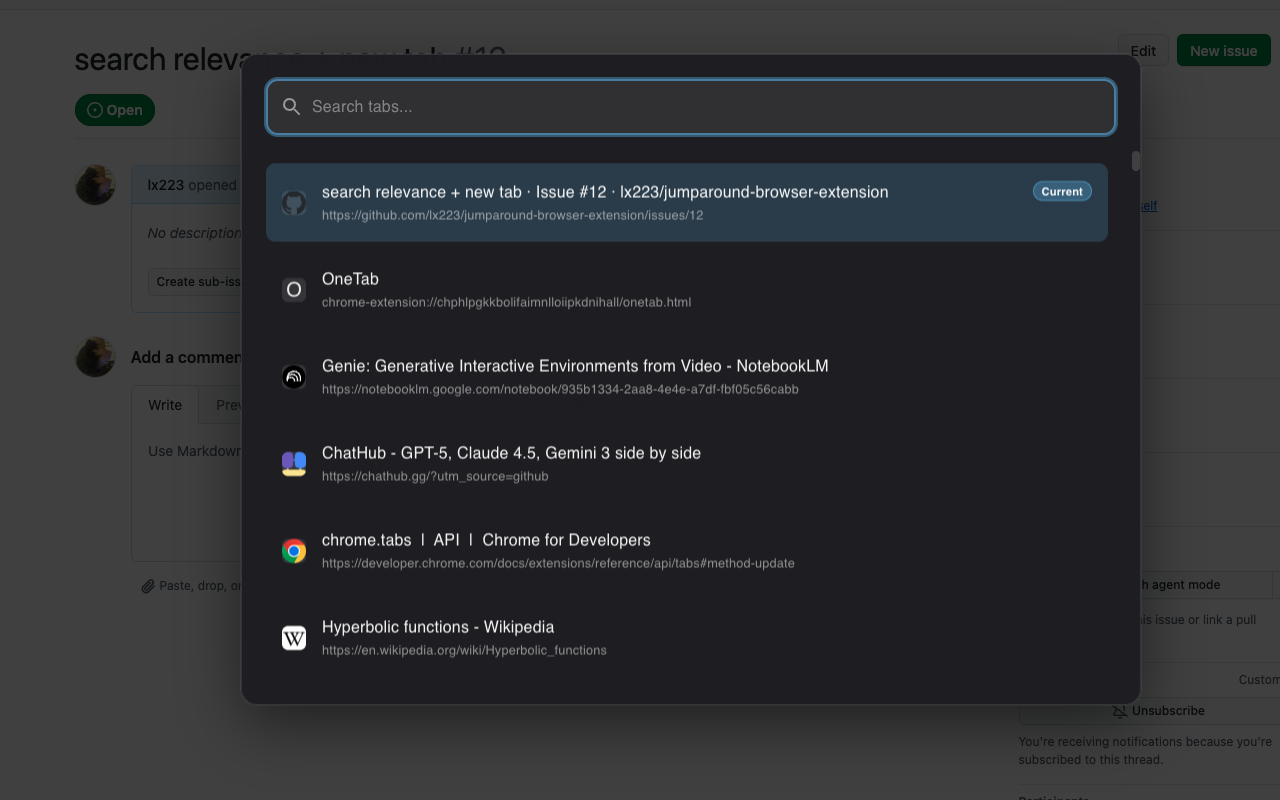
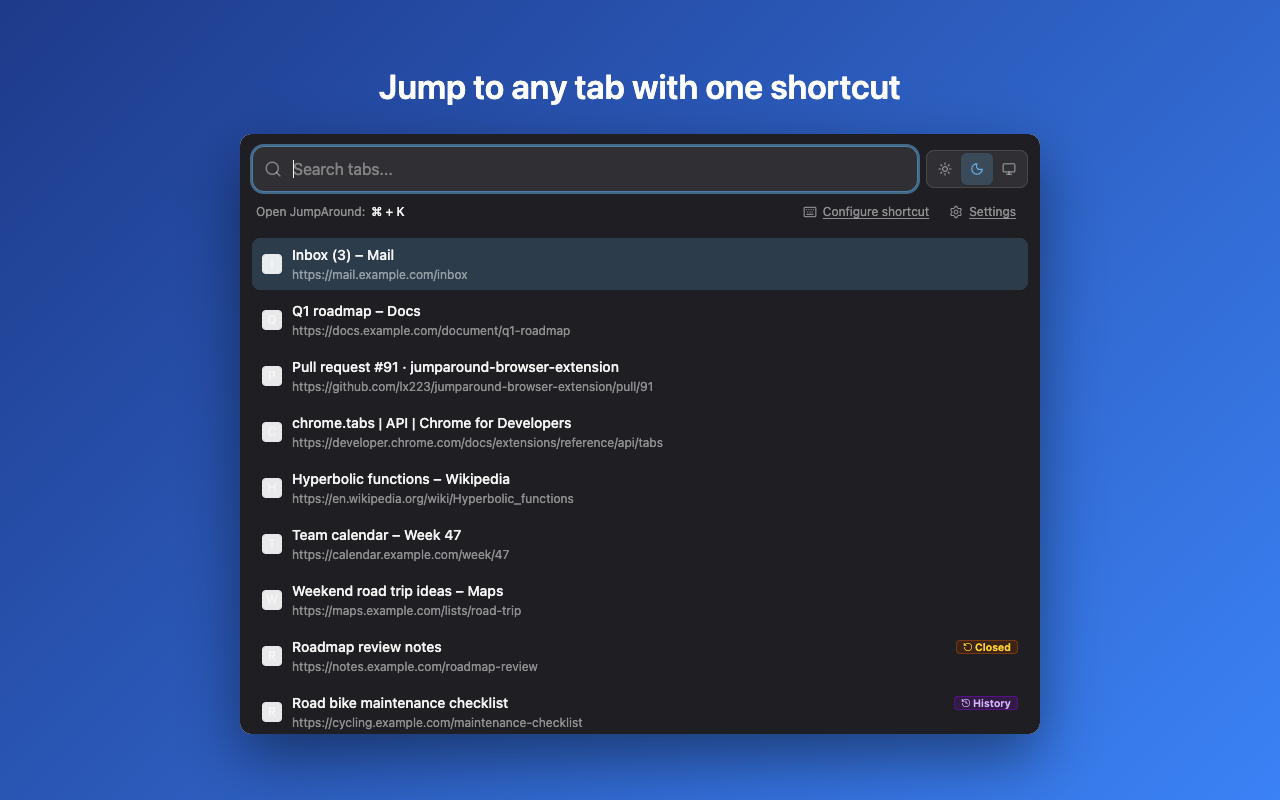
Regenerate store screenshots from the built extension
The old promo image showed an overlay UI the extension no longer has.
Add a script that renders the real popup and settings page with sample
tabs in headless Chrome, and use it to produce three 1280x800
screenshots: popup, search, and the new settings page.

diff --git a/scripts/store-screenshots.js b/scripts/store-screenshots.js
@@ -1,0 +1,129 @@
+#!/usr/bin/env node
+
+/**
+ * Regenerate the Chrome Web Store screenshots (1280x800) from the built extension.
+ *
+ * Renders the real popup and settings pages from dist/ in headless Chrome, with the
+ * chrome.* APIs replaced by a mock that returns sample tabs. Run `npm run build` first.
+ */
+
+import { createServer } from 'http';
+import { execFile } from 'child_process';
+import { promisify } from 'util';
+import { existsSync, mkdtempSync, readFileSync, rmSync } from 'fs';
+import { tmpdir } from 'os';
+import { extname, join, normalize } from 'path';
+import sharp from 'sharp';
+
+const root = join(import.meta.dirname, '..');
+const dist = join(root, 'dist');
+const out = join(root, 'store/chrome');
+const chromePath = process.env.CHROME_PATH || '/Applications/Google Chrome.app/Contents/MacOS/Google Chrome';
+
+if (!existsSync(join(dist, 'manifest.json'))) throw new Error('dist/ is missing. Run `npm run build` first.');
+if (!existsSync(chromePath)) throw new Error(`Chrome not found at ${chromePath}. Set CHROME_PATH.`);
+
+const shots = [
+  { file: 'promo.png', page: 'src/content/index.html', theme: 'dark', caption: 'Jump to any tab with one shortcut' },
+  { file: 'screenshot-search.png', page: 'src/content/index.html', theme: 'light', query: 'road', caption: 'Search open tabs, closed tabs and history' },
+  { file: 'screenshot-settings.png', page: 'src/options/index.html', theme: 'light', caption: 'Usage analytics is off unless you turn it on' },
+];
+
+const minutes = n => Date.now() - n * 60_000;
+const sample = {
+  tabs: [
+    ['Inbox (3) – Mail', 'https://mail.example.com/inbox'],
+    ['Q1 roadmap – Docs', 'https://docs.example.com/document/q1-roadmap'],
+    ['Pull request #91 · jumparound-browser-extension', 'https://github.com/lx223/jumparound-browser-extension/pull/91'],
+    ['chrome.tabs | API | Chrome for Developers', 'https://developer.chrome.com/docs/extensions/reference/api/tabs'],
+    ['Hyperbolic functions – Wikipedia', 'https://en.wikipedia.org/wiki/Hyperbolic_functions'],
+    ['Team calendar – Week 47', 'https://calendar.example.com/week/47'],
+    ['Weekend road trip ideas – Maps', 'https://maps.example.com/lists/road-trip'],
+  ].map(([title, url], i) => ({ id: i + 1, title, url, windowId: 1, active: i === 2, lastAccessed: minutes(i) })),
+  closedTabs: [
+    { id: -1, title: 'Roadmap review notes', url: 'https://notes.example.com/roadmap-review', windowId: 1, active: false, lastAccessed: minutes(30), isClosedTab: true, sessionId: '1' },
+  ],
+  historyTabs: [
+    { id: -2, title: 'Road bike maintenance checklist', url: 'https://cycling.example.com/maintenance-checklist', windowId: 1, active: false, lastAccessed: minutes(600), isHistoryTab: true },
+  ],
+};
+
+// Runs inside the extension page before its own scripts: a minimal stand-in for chrome.*.
+const mock = `(() => {
+  const params = new URLSearchParams(location.search);
+  const sample = ${JSON.stringify(sample)};
+  const messages = ${readFileSync(join(dist, '_locales/en/messages.json'), 'utf8')};
+  localStorage.setItem('jumparound-theme', params.get('theme') || 'light');
+  window.chrome = {
+    runtime: {
+      id: 'mock',
+      sendMessage: (message, callback) => callback?.(message.type === 'SEARCH_HISTORY' ? { historyTabs: [] } : { success: true, ...sample }),
+      openOptionsPage: async () => {},
+    },
+    i18n: { getMessage: key => messages[key]?.message || '', getUILanguage: () => 'en' },
+    commands: { getAll: callback => callback([{ name: '_execute_action', shortcut: '⌘K' }]) },
+    storage: {
+      local: { get: async () => ({}) },
+      onChanged: { addListener() {}, removeListener() {} },
+    },
+    tabs: { create() {} },
+  };
+  const query = params.get('query');
+  if (query) window.addEventListener('load', () => {
+    const type = () => {
+      const input = document.querySelector('input');
+      if (!input) return void setTimeout(type, 20);
+      Object.getOwnPropertyDescriptor(HTMLInputElement.prototype, 'value').set.call(input, query);
+      input.dispatchEvent(new Event('input', { bubbles: true }));
+    };
+    type();
+  });
+})();`;
+
+// The 800x600 popup, centred on a 1280x800 backdrop with a caption.
+const stage = `<!doctype html><meta charset="utf-8"><style>
+  html, body { margin: 0; width: 1280px; height: 800px; overflow: hidden; }
+  body { display: flex; flex-direction: column; align-items: center; justify-content: center; gap: 28px;
+    background: linear-gradient(135deg, #1e3a8a, #3b82f6); font: 600 34px/1.2 system-ui, sans-serif; color: #fff; }
+  iframe { width: 800px; height: 600px; border: 0; border-radius: 12px; box-shadow: 0 24px 60px rgba(0, 0, 0, .45); background: #fff; }
+</style><div id="caption"></div><iframe></iframe><script>
+  const params = new URLSearchParams(location.search);
+  document.getElementById('caption').textContent = params.get('caption');
+  const page = params.get('page');
+  params.delete('caption'); params.delete('page');
+  document.querySelector('iframe').src = '/' + page + '?' + params;
+</script>`;
+
+const types = { '.html': 'text/html', '.js': 'text/javascript', '.css': 'text/css', '.json': 'application/json', '.png': 'image/png', '.svg': 'image/svg+xml' };
+const server = createServer((request, response) => {
+  const path = new URL(request.url, 'http://localhost').pathname;
+  const send = (body, type) => response.writeHead(200, { 'Content-Type': type }).end(body);
+  if (path === '/stage.html') return send(stage, 'text/html');
+  if (path === '/mock.js') return send(mock, 'text/javascript');
+  const file = join(dist, normalize(path));
+  if (!file.startsWith(dist) || !existsSync(file)) return response.writeHead(404).end();
+  const body = readFileSync(file);
+  if (extname(file) !== '.html') return send(body, types[extname(file)] || 'application/octet-stream');
+  send(body.toString().replace('<head>', '<head><script src="/mock.js"></script>'), 'text/html');
+});
+
+await new Promise(resolve => server.listen(0, '127.0.0.1', resolve));
+const { port } = server.address();
+// A throwaway profile keeps headless Chrome from attaching to a running browser.
+const profile = mkdtempSync(join(tmpdir(), 'jumparound-shots-'));
+try {
+  for (const { file, ...params } of shots) {
+    const target = join(out, file);
+    const url = `http://127.0.0.1:${port}/stage.html?${new URLSearchParams(params)}`;
+    // Async, so the server above can answer Chrome while it runs.
+    await promisify(execFile)(chromePath, ['--headless=new', `--user-data-dir=${profile}`, '--no-first-run', '--hide-scrollbars', '--force-device-scale-factor=1', '--window-size=1280,800',
+      '--virtual-time-budget=5000', `--screenshot=${target}`, url], { timeout: 60_000 });
+    // The store rejects PNGs with an alpha channel.
+    const flat = await sharp(target).flatten({ background: '#ffffff' }).png().toBuffer();
+    await sharp(flat).toFile(target);
+    console.log(`✓ ${file}`);
+  }
+} finally {
+  server.close();
+  rmSync(profile, { recursive: true, force: true });
+}
